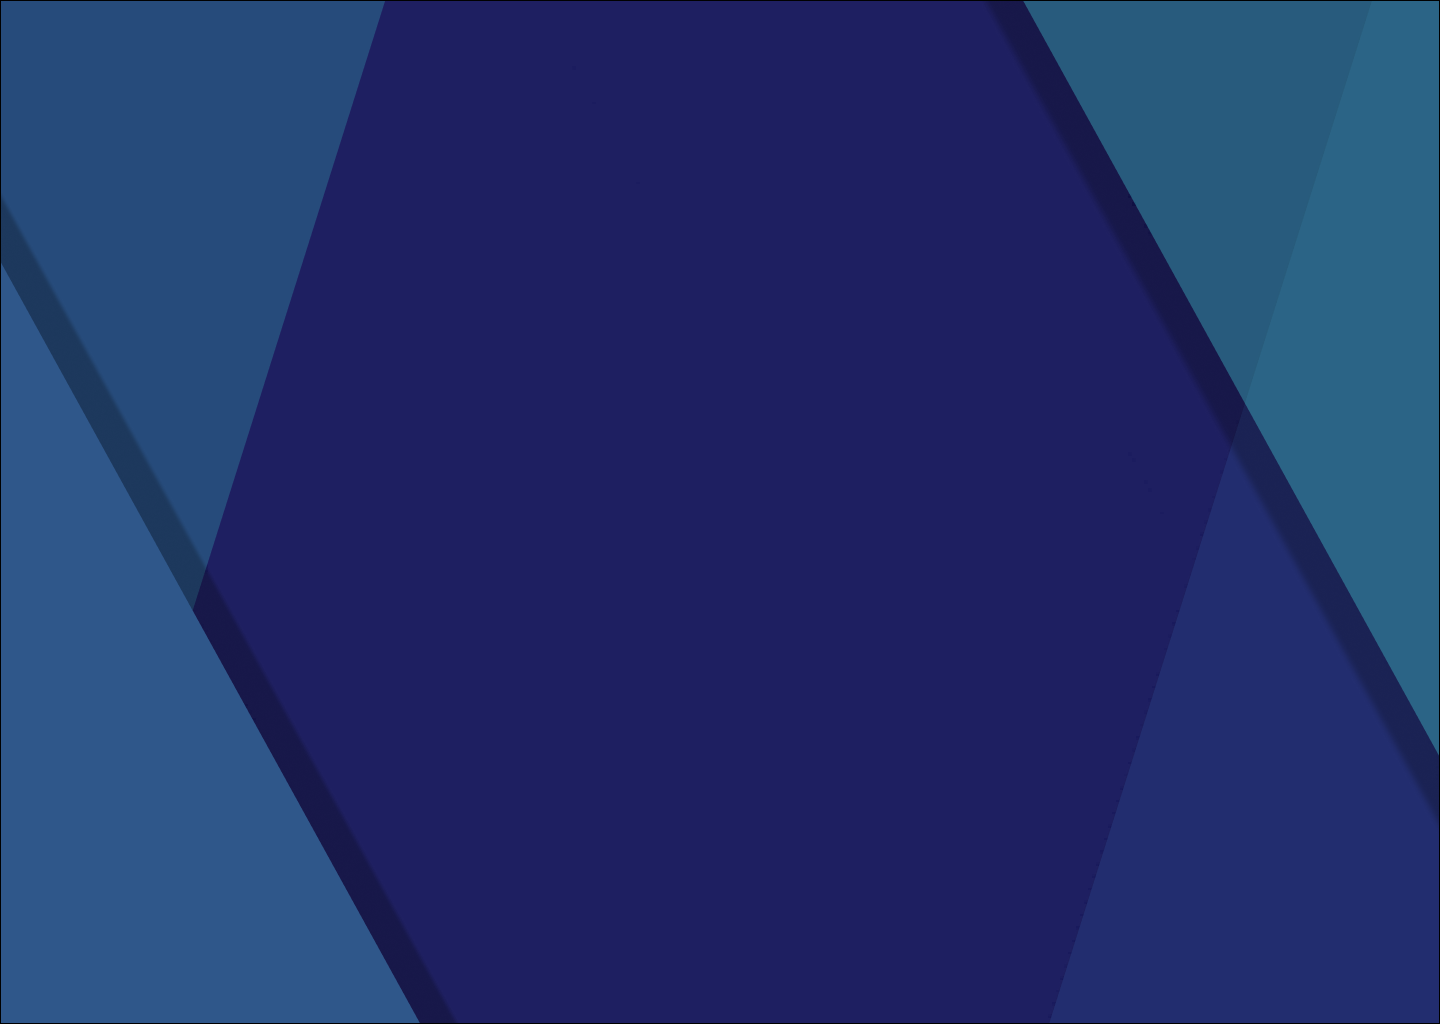
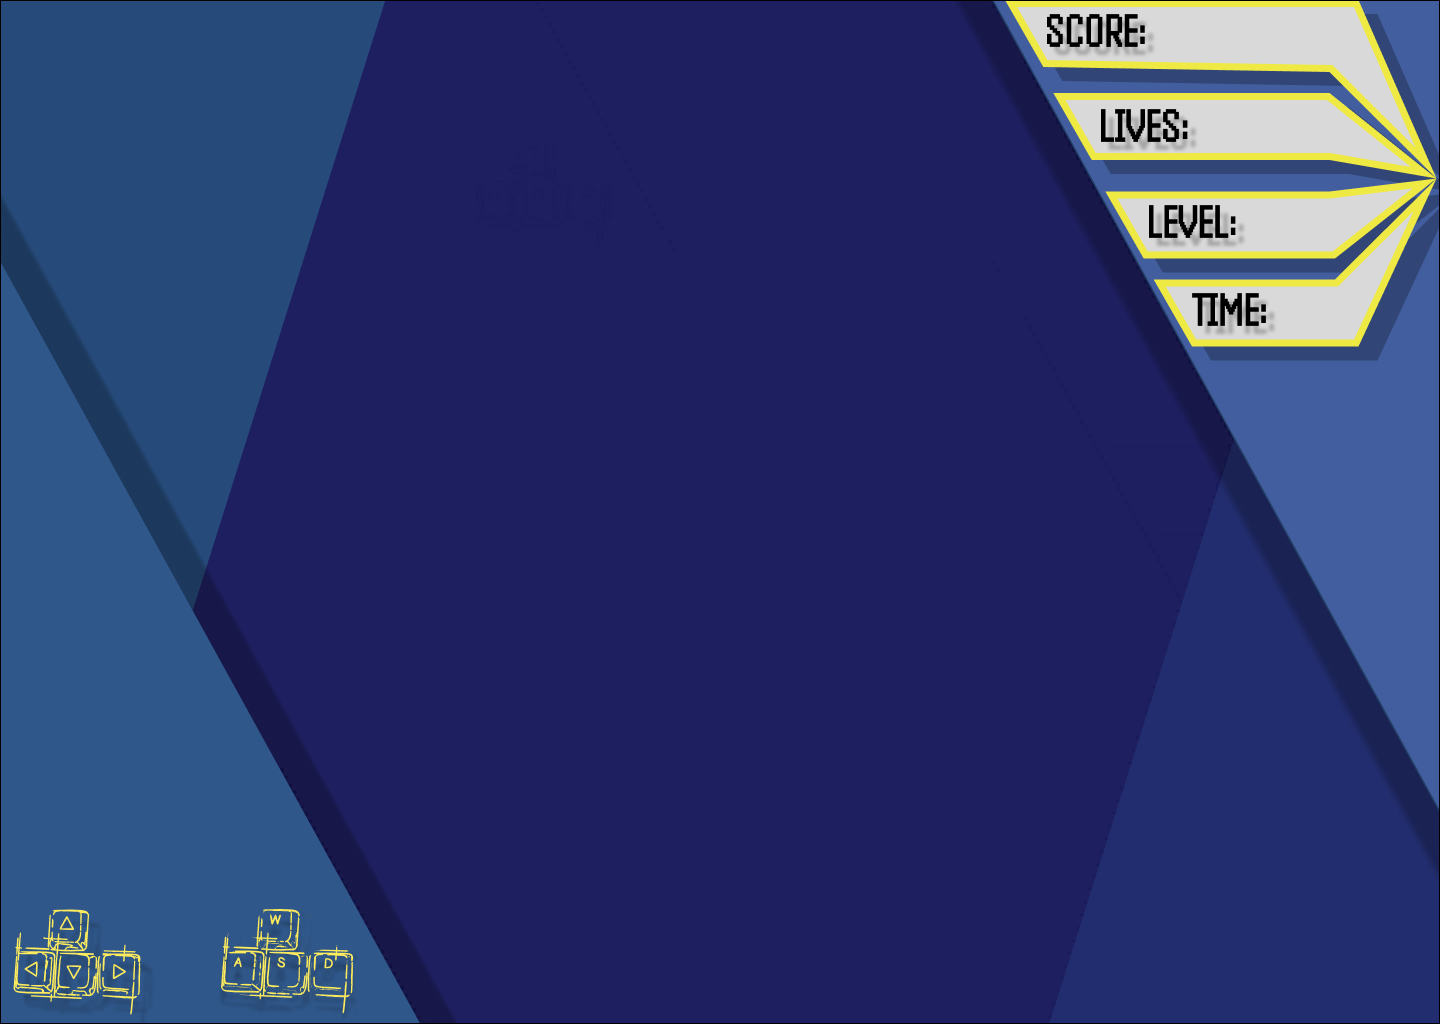
add some ui layout

Changed region(s): [[0.6875, 0.0, 1.0, 0.8438], [0.0, 0.875, 0.0938, 1.0], [0.1562, 0.875, 0.25, 0.9688]]

diff --git a/src/game.py b/src/game.py
@@ -47,7 +47,7 @@ class GameWindow(arcade.View):
 
         self.rows = len(self.maze)
         self.cols = len(self.maze[0])
-        self.background = load_texture("src/assets/game.png")
+        self.background = load_texture("src/assets/gem.png")
         margin = 95
         available_w = self.width - margin * 2
         available_h = self.height - margin * 2
